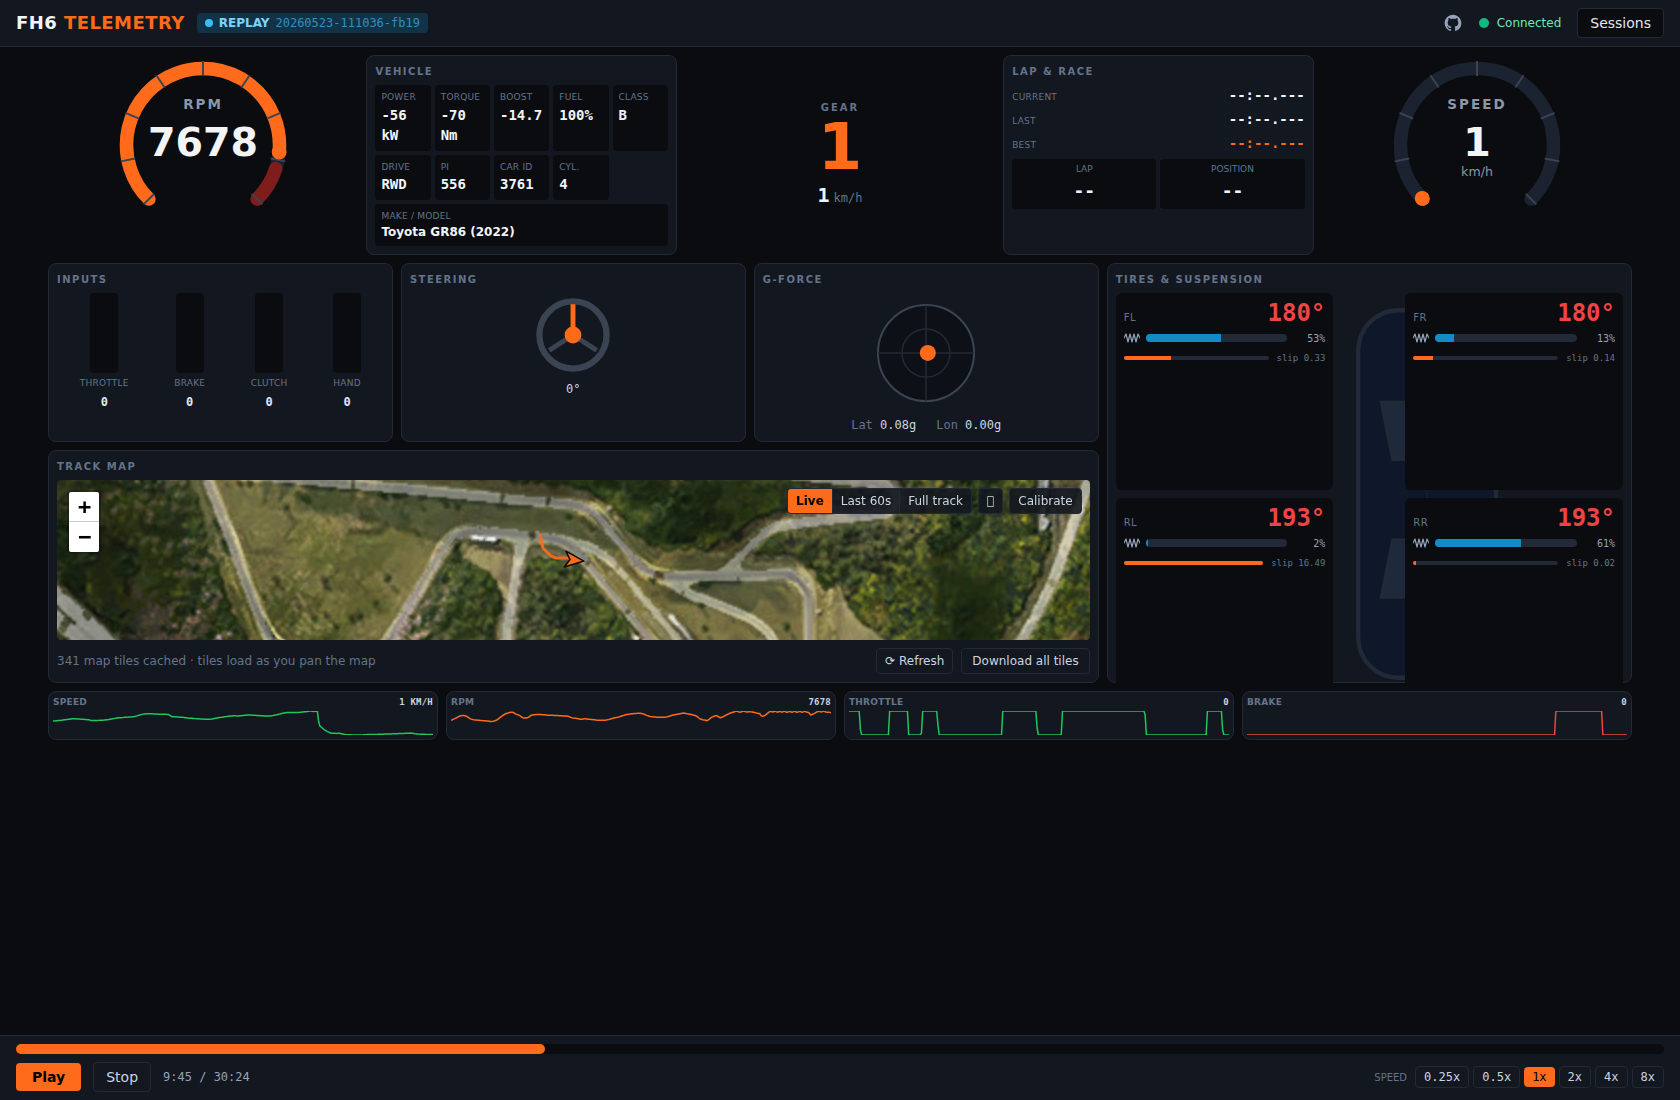
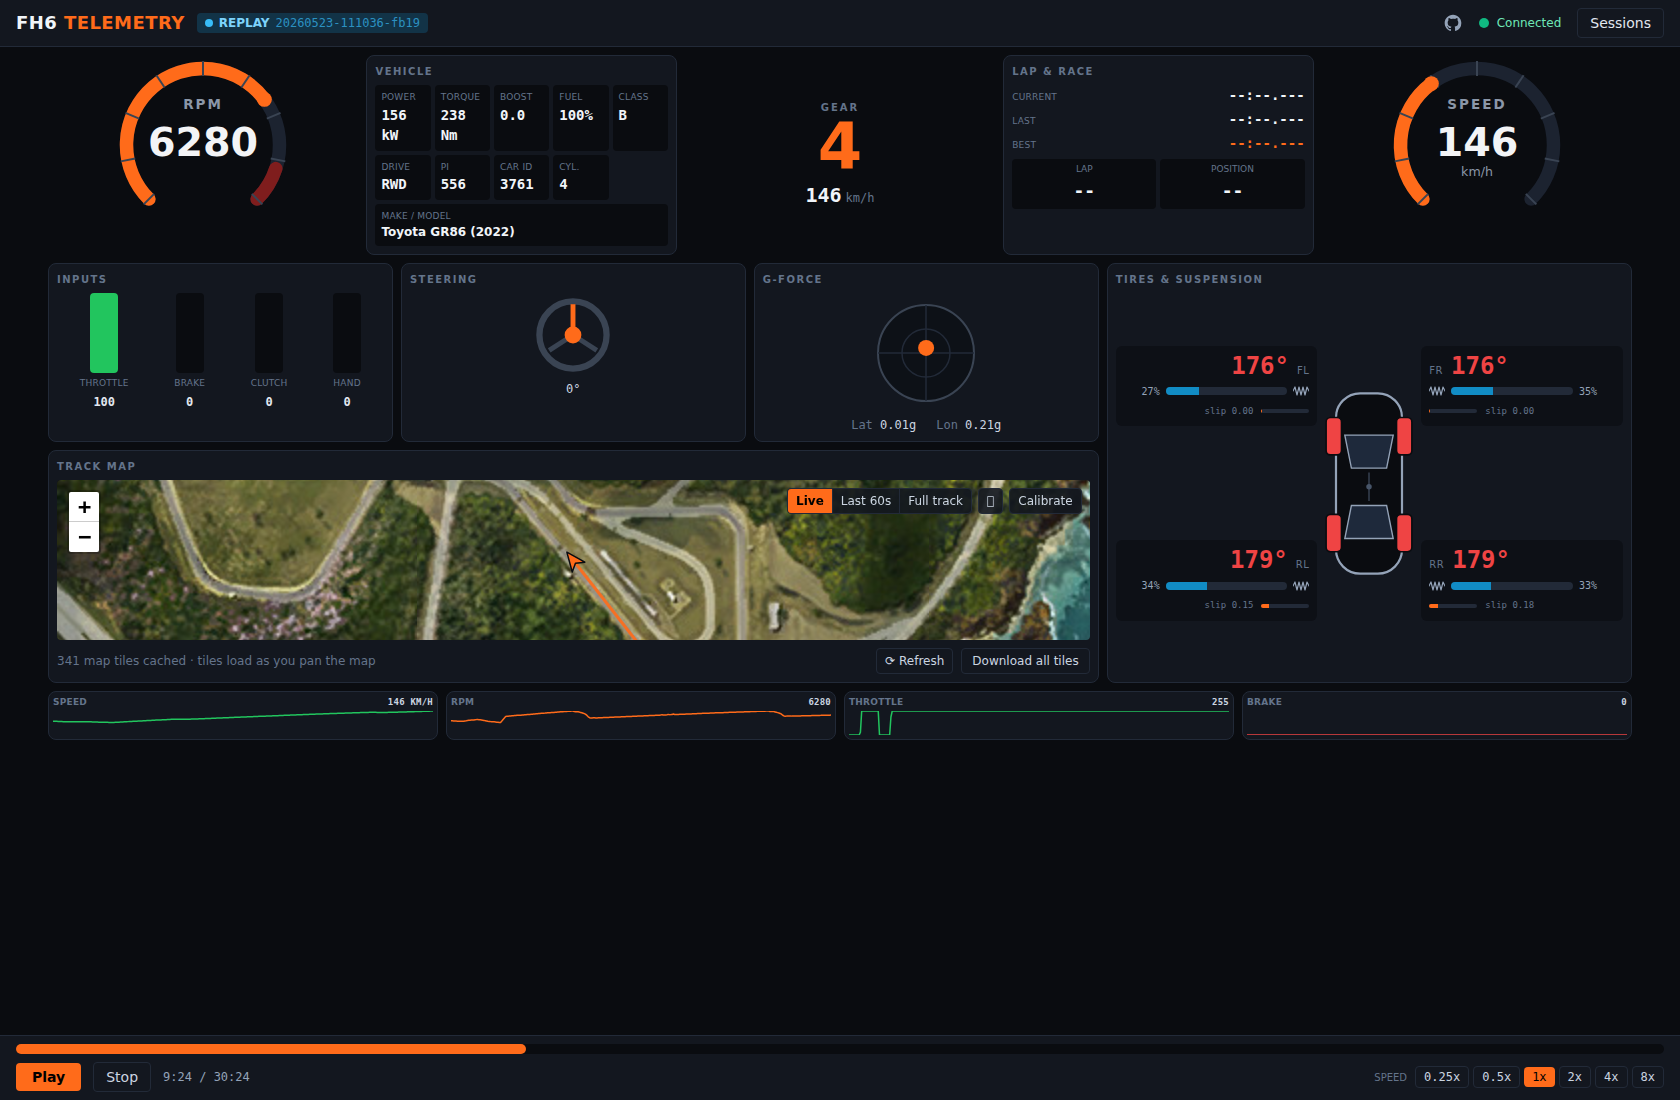
ui(dashboard): visible car pictogram with temp-colored wheels
Brighten the car silhouette so it reads on the dark panel, center each
wheel readout vertically so cells stop looking top-heavy, and render the
four wheels as larger rounded rectangles filled with the same temperature
color used for the numeric readout. Refresh dashboard.png to match.

diff --git a/src/client/components/cockpit/TireSuspensionPanel.tsx b/src/client/components/cockpit/TireSuspensionPanel.tsx
@@ -17,37 +17,59 @@ function Spring() {
   );
 }
 
-function CarSilhouette() {
+interface CarSilhouetteProps {
+  tempFl: number;
+  tempFr: number;
+  tempRl: number;
+  tempRr: number;
+}
+
+function Wheel({ x, y, color }: { x: number; y: number; color: string }) {
+  return (
+    <rect
+      x={x}
+      y={y}
+      width="14"
+      height="34"
+      rx="4"
+      fill={color}
+      stroke="#0a0c10"
+      strokeWidth="1.5"
+    />
+  );
+}
+
+function CarSilhouette({ tempFl, tempFr, tempRl, tempRr }: CarSilhouetteProps) {
   return (
     <svg
-      viewBox="0 0 60 140"
-      className="mx-auto h-full w-auto text-cockpit-edge"
+      viewBox="0 0 80 180"
+      className="mx-auto h-full w-full"
       preserveAspectRatio="xMidYMid meet"
       aria-hidden
     >
       <rect
-        x="6"
-        y="6"
-        width="48"
-        height="128"
-        rx="14"
-        fill="#0f172a"
-        stroke="currentColor"
-        strokeWidth="1.5"
+        x="10"
+        y="8"
+        width="60"
+        height="164"
+        rx="22"
+        fill="#0a0c10"
+        stroke="#94a3b8"
+        strokeWidth="2"
       />
+      <path d="M18 46 L62 46 L56 76 L24 76 Z" fill="#1e293b" stroke="#94a3b8" strokeWidth="1.25" />
       <path
-        d="M14 38 L46 38 L42 58 L18 58 Z"
+        d="M24 110 L56 110 L62 140 L18 140 Z"
         fill="#1e293b"
-        stroke="currentColor"
-        strokeWidth="1"
+        stroke="#94a3b8"
+        strokeWidth="1.25"
       />
-      <path
-        d="M18 86 L42 86 L46 106 L14 106 Z"
-        fill="#1e293b"
-        stroke="currentColor"
-        strokeWidth="1"
-      />
-      <line x1="30" y1="60" x2="30" y2="84" stroke="currentColor" strokeWidth="0.5" opacity="0.5" />
+      <line x1="40" y1="80" x2="40" y2="106" stroke="#475569" strokeWidth="1" />
+      <circle cx="40" cy="93" r="2.5" fill="#475569" />
+      <Wheel x={1} y={30} color={tempColor(tempFl)} />
+      <Wheel x={65} y={30} color={tempColor(tempFr)} />
+      <Wheel x={1} y={118} color={tempColor(tempRl)} />
+      <Wheel x={65} y={118} color={tempColor(tempRr)} />
     </svg>
   );
 }
@@ -65,21 +87,32 @@ function WheelReadout({ label, temp, travel, slip, wear, align }: WheelProps) {
   const t = Math.min(1, Math.max(0, travel));
   const slipPct = Math.min(100, Math.max(0, slip * 100));
   const wearPct = wear !== undefined ? Math.round(wear * 100) : null;
-  const alignClass = align === 'left' ? 'items-start text-left' : 'items-end text-right';
+  const isRight = align === 'right';
 
   return (
-    <div className={`flex flex-col gap-1.5 rounded-md bg-cockpit-bg p-2 ${alignClass}`}>
-      <div className="flex w-full items-baseline justify-between gap-2">
-        <span className="text-[10px] uppercase tracking-wider text-slate-500">{label}</span>
+    <div
+      className={`flex flex-col justify-center gap-1.5 rounded-md bg-cockpit-bg/60 p-2 ${
+        isRight ? 'items-end text-right' : 'items-start text-left'
+      }`}
+    >
+      <div
+        className={`flex w-full items-baseline gap-2 ${isRight ? 'justify-end' : 'justify-start'}`}
+      >
+        {!isRight && (
+          <span className="text-[10px] uppercase tracking-wider text-slate-500">{label}</span>
+        )}
         <span
           className="font-mono text-2xl font-bold leading-none"
           style={{ color: tempColor(temp), fontVariantNumeric: 'tabular-nums' }}
         >
           {temp > 0 ? `${temp.toFixed(0)}°` : '--'}
         </span>
+        {isRight && (
+          <span className="text-[10px] uppercase tracking-wider text-slate-500">{label}</span>
+        )}
       </div>
 
-      <div className="flex w-full items-center gap-1.5">
+      <div className={`flex w-full items-center gap-1.5 ${isRight ? 'flex-row-reverse' : ''}`}>
         <Spring />
         <div className="relative h-2 flex-1 overflow-hidden rounded bg-cockpit-edge">
           <div
@@ -87,22 +120,24 @@ function WheelReadout({ label, temp, travel, slip, wear, align }: WheelProps) {
             style={{ width: `${t * 100}%` }}
           />
         </div>
-        <span className="w-8 text-right font-mono text-[10px] tabular-nums text-slate-400">
+        <span className="w-9 font-mono text-[10px] tabular-nums text-slate-400">
           {Math.round(t * 100)}%
         </span>
       </div>
 
-      <div className="flex w-full items-center gap-2">
-        <div className="relative h-1 flex-1 overflow-hidden rounded bg-cockpit-edge">
+      <div
+        className={`flex w-full items-center gap-2 text-[9px] ${isRight ? 'flex-row-reverse' : ''}`}
+      >
+        <div className="relative h-1 w-12 overflow-hidden rounded bg-cockpit-edge">
           <div
             className="absolute inset-y-0 left-0 bg-cockpit-accent"
             style={{ width: `${slipPct}%` }}
           />
         </div>
-        <span className="font-mono text-[9px] text-slate-500">slip {slip.toFixed(2)}</span>
+        <span className="font-mono text-slate-500">slip {slip.toFixed(2)}</span>
         {wearPct !== null && (
-          <span className="rounded bg-cockpit-edge px-1.5 py-0.5 font-mono text-[9px] text-slate-300">
-            {wearPct}%
+          <span className="rounded bg-cockpit-edge px-1.5 py-0.5 font-mono text-slate-300">
+            wear {wearPct}%
           </span>
         )}
       </div>
@@ -114,8 +149,8 @@ export function TireSuspensionPanel() {
   const f = useTelemetryStore((s) => s.frame);
 
   return (
-    <Panel title="Tires & Suspension" className="h-full">
-      <div className="grid h-full grid-cols-1 gap-2 lg:grid-cols-[1fr_auto_1fr] lg:grid-rows-2">
+    <Panel title="Tires & Suspension" className="flex h-full flex-col">
+      <div className="grid flex-1 grid-cols-1 items-center gap-2 lg:grid-cols-[1fr_88px_1fr] lg:grid-rows-2">
         <WheelReadout
           align="right"
           label="FL"
@@ -124,8 +159,13 @@ export function TireSuspensionPanel() {
           slip={f?.tireCombinedSlipFl ?? 0}
           wear={f?.tireWearFl}
         />
-        <div className="hidden w-14 lg:col-start-2 lg:row-span-2 lg:block">
-          <CarSilhouette />
+        <div className="hidden lg:col-start-2 lg:row-span-2 lg:block lg:self-stretch lg:py-1">
+          <CarSilhouette
+            tempFl={f?.tireTempFl ?? 0}
+            tempFr={f?.tireTempFr ?? 0}
+            tempRl={f?.tireTempRl ?? 0}
+            tempRr={f?.tireTempRr ?? 0}
+          />
         </div>
         <WheelReadout
           align="left"